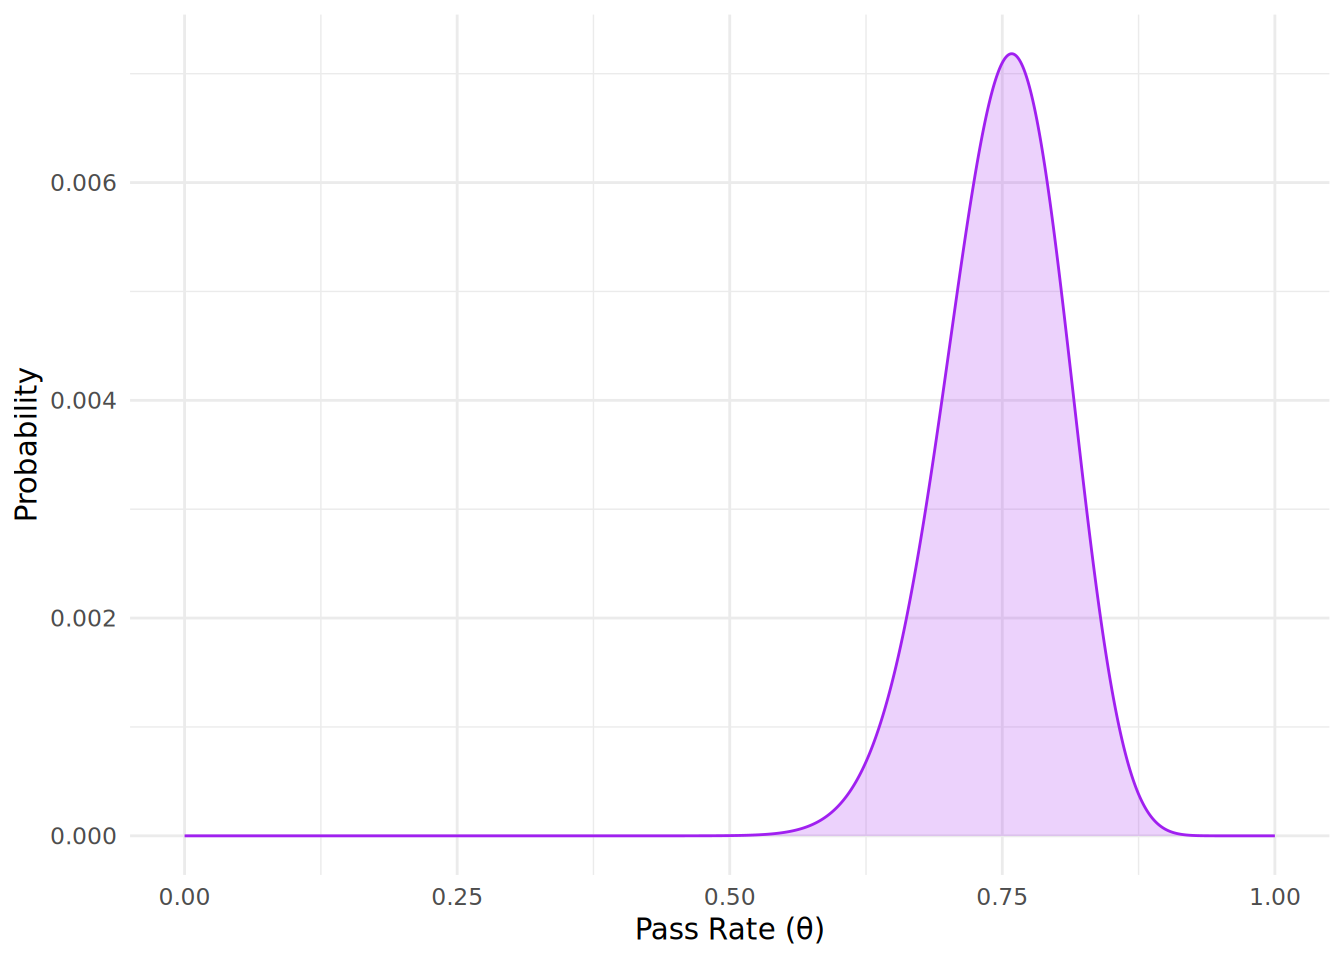
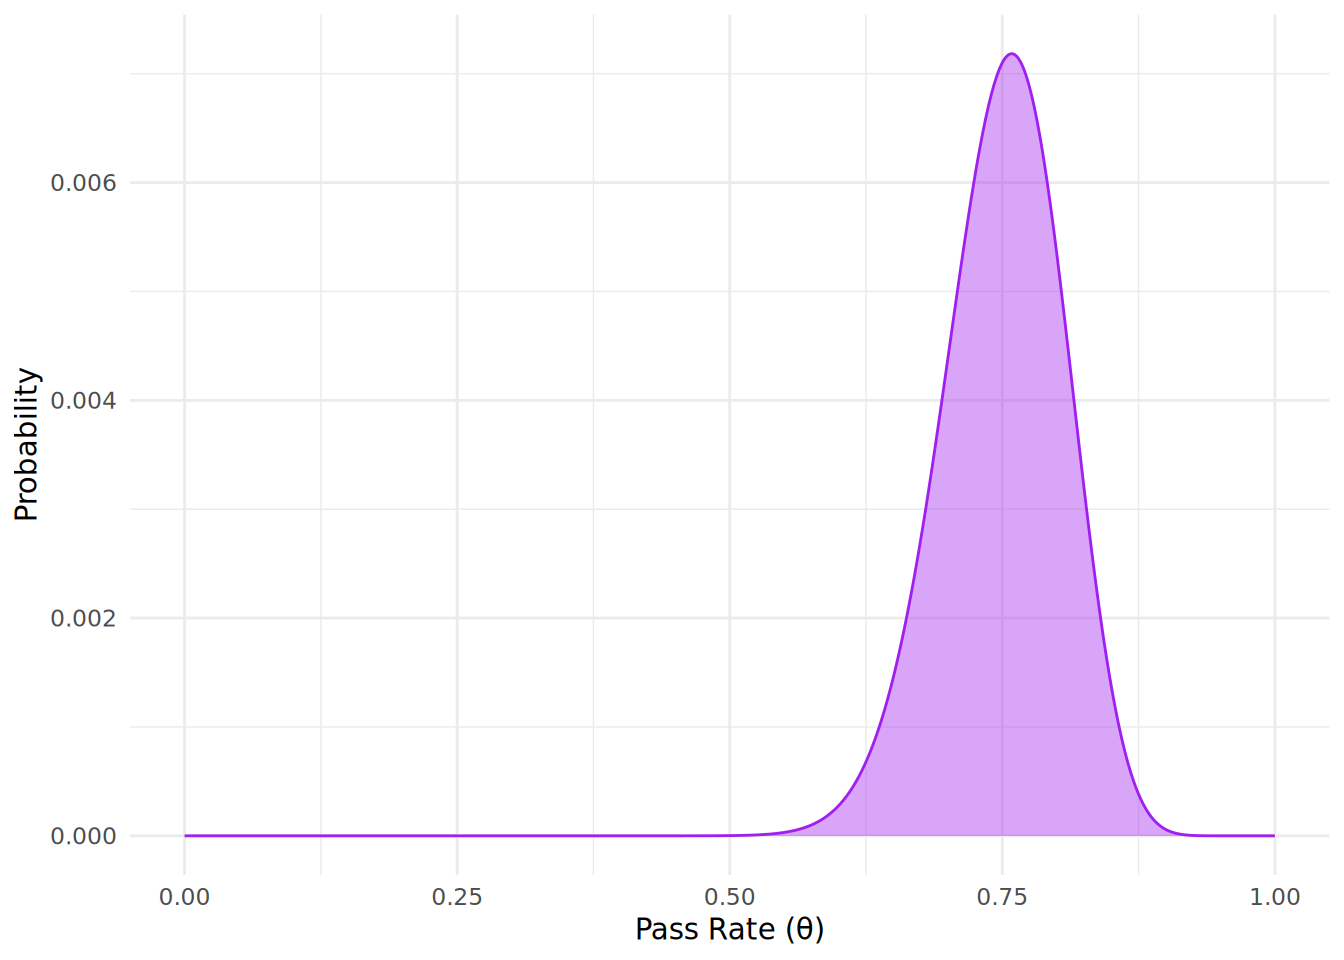
Adjust colors in comparative distributions for greater color-blind friendliness

Changed region(s): [[0.5938, 0.0625, 0.875, 0.875]]

diff --git a/docs/bayesian_inference.html b/docs/bayesian_inference.html
@@ -456,8 +456,8 @@ Figure&nbsp;12.1: Non-informative Beta(1, 1) (uniform) prior on the distribution
 <span id="cb2-6"><a href="#cb2-6" aria-hidden="true" tabindex="-1"></a></span>
 <span id="cb2-7"><a href="#cb2-7" aria-hidden="true" tabindex="-1"></a><span class="co"># plot the prior distribution</span></span>
 <span id="cb2-8"><a href="#cb2-8" aria-hidden="true" tabindex="-1"></a><span class="fu">ggplot</span>(prior_df, <span class="fu">aes</span>(<span class="at">x =</span> theta, <span class="at">y =</span> density)) <span class="sc">+</span></span>
-<span id="cb2-9"><a href="#cb2-9" aria-hidden="true" tabindex="-1"></a>  <span class="fu">geom_line</span>(<span class="at">color =</span> <span class="st">"darkgreen"</span>) <span class="sc">+</span></span>
-<span id="cb2-10"><a href="#cb2-10" aria-hidden="true" tabindex="-1"></a>  <span class="fu">geom_area</span>(<span class="at">fill =</span> <span class="st">"darkgreen"</span>, <span class="at">alpha =</span> <span class="fl">0.2</span>) <span class="sc">+</span></span>
+<span id="cb2-9"><a href="#cb2-9" aria-hidden="true" tabindex="-1"></a>  <span class="fu">geom_line</span>(<span class="at">color =</span> <span class="st">"blue"</span>) <span class="sc">+</span></span>
+<span id="cb2-10"><a href="#cb2-10" aria-hidden="true" tabindex="-1"></a>  <span class="fu">geom_area</span>(<span class="at">fill =</span> <span class="st">"blue"</span>, <span class="at">alpha =</span> <span class="fl">0.4</span>) <span class="sc">+</span></span>
 <span id="cb2-11"><a href="#cb2-11" aria-hidden="true" tabindex="-1"></a>  <span class="fu">labs</span>(<span class="at">x =</span> <span class="st">"Pass Rate (θ)"</span>,</span>
 <span id="cb2-12"><a href="#cb2-12" aria-hidden="true" tabindex="-1"></a>       <span class="at">y =</span> <span class="st">"Density"</span>) <span class="sc">+</span></span>
 <span id="cb2-13"><a href="#cb2-13" aria-hidden="true" tabindex="-1"></a>  <span class="fu">theme_minimal</span>()</span></code></pre></div><button title="Copy to Clipboard" class="code-copy-button"><i class="bi"></i></button></div>
@@ -509,8 +509,8 @@ P(D \mid \theta) = \binom{20}{12} \theta^{12}(1 - \theta)^{8}
 <span id="cb5-3"><a href="#cb5-3" aria-hidden="true" tabindex="-1"></a></span>
 <span id="cb5-4"><a href="#cb5-4" aria-hidden="true" tabindex="-1"></a><span class="co"># plot the likelihood function</span></span>
 <span id="cb5-5"><a href="#cb5-5" aria-hidden="true" tabindex="-1"></a><span class="fu">ggplot</span>(likelihood_df, <span class="fu">aes</span>(<span class="at">x =</span> theta, <span class="at">y =</span> likelihood)) <span class="sc">+</span></span>
-<span id="cb5-6"><a href="#cb5-6" aria-hidden="true" tabindex="-1"></a>  <span class="fu">geom_line</span>(<span class="at">color =</span> <span class="st">"blue"</span>) <span class="sc">+</span></span>
-<span id="cb5-7"><a href="#cb5-7" aria-hidden="true" tabindex="-1"></a>  <span class="fu">geom_area</span>(<span class="at">fill =</span> <span class="st">"blue"</span>, <span class="at">alpha =</span> <span class="fl">0.2</span>) <span class="sc">+</span></span>
+<span id="cb5-6"><a href="#cb5-6" aria-hidden="true" tabindex="-1"></a>  <span class="fu">geom_line</span>(<span class="at">color =</span> <span class="st">"magenta"</span>) <span class="sc">+</span></span>
+<span id="cb5-7"><a href="#cb5-7" aria-hidden="true" tabindex="-1"></a>  <span class="fu">geom_area</span>(<span class="at">fill =</span> <span class="st">"magenta"</span>, <span class="at">alpha =</span> <span class="fl">0.4</span>) <span class="sc">+</span></span>
 <span id="cb5-8"><a href="#cb5-8" aria-hidden="true" tabindex="-1"></a>  <span class="fu">labs</span>(<span class="at">x =</span> <span class="st">"Pass Rate (θ)"</span>,</span>
 <span id="cb5-9"><a href="#cb5-9" aria-hidden="true" tabindex="-1"></a>       <span class="at">y =</span> <span class="st">"Likelihood"</span>) <span class="sc">+</span></span>
 <span id="cb5-10"><a href="#cb5-10" aria-hidden="true" tabindex="-1"></a>  <span class="fu">theme_minimal</span>()</span></code></pre></div><button title="Copy to Clipboard" class="code-copy-button"><i class="bi"></i></button></div>
@@ -549,8 +549,8 @@ Figure&nbsp;12.3: Likelihood of observing 12 passes out of 20 engineers for diff
 <span id="cb7-3"><a href="#cb7-3" aria-hidden="true" tabindex="-1"></a></span>
 <span id="cb7-4"><a href="#cb7-4" aria-hidden="true" tabindex="-1"></a><span class="co"># plot the posterior distribution</span></span>
 <span id="cb7-5"><a href="#cb7-5" aria-hidden="true" tabindex="-1"></a><span class="fu">ggplot</span>(posterior_df, <span class="fu">aes</span>(<span class="at">x =</span> theta, <span class="at">y =</span> density)) <span class="sc">+</span></span>
-<span id="cb7-6"><a href="#cb7-6" aria-hidden="true" tabindex="-1"></a>  <span class="fu">geom_line</span>(<span class="at">color =</span> <span class="st">"red"</span>) <span class="sc">+</span></span>
-<span id="cb7-7"><a href="#cb7-7" aria-hidden="true" tabindex="-1"></a>  <span class="fu">geom_area</span>(<span class="at">fill =</span> <span class="st">"red"</span>, <span class="at">alpha =</span> <span class="fl">0.2</span>) <span class="sc">+</span></span>
+<span id="cb7-6"><a href="#cb7-6" aria-hidden="true" tabindex="-1"></a>  <span class="fu">geom_line</span>(<span class="at">color =</span> <span class="st">"cyan"</span>) <span class="sc">+</span></span>
+<span id="cb7-7"><a href="#cb7-7" aria-hidden="true" tabindex="-1"></a>  <span class="fu">geom_area</span>(<span class="at">fill =</span> <span class="st">"cyan"</span>, <span class="at">alpha =</span> <span class="fl">0.4</span>) <span class="sc">+</span></span>
 <span id="cb7-8"><a href="#cb7-8" aria-hidden="true" tabindex="-1"></a>  <span class="fu">labs</span>(<span class="at">x =</span> <span class="st">"Pass Rate (θ)"</span>,</span>
 <span id="cb7-9"><a href="#cb7-9" aria-hidden="true" tabindex="-1"></a>       <span class="at">y =</span> <span class="st">"Density"</span>) <span class="sc">+</span></span>
 <span id="cb7-10"><a href="#cb7-10" aria-hidden="true" tabindex="-1"></a>  <span class="fu">theme_minimal</span>()</span></code></pre></div><button title="Copy to Clipboard" class="code-copy-button"><i class="bi"></i></button></div>
@@ -617,7 +617,7 @@ Figure&nbsp;12.5: Prior, Normalized Likelihood and Posterior probabilities of pa
 <span id="cb8-19"><a href="#cb8-19" aria-hidden="true" tabindex="-1"></a></span>
 <span id="cb8-20"><a href="#cb8-20" aria-hidden="true" tabindex="-1"></a><span class="fu">ggplot</span>(new_posterior_df, <span class="fu">aes</span>(<span class="at">x =</span> theta, <span class="at">y =</span> density)) <span class="sc">+</span></span>
 <span id="cb8-21"><a href="#cb8-21" aria-hidden="true" tabindex="-1"></a>  <span class="fu">geom_line</span>(<span class="at">color =</span> <span class="st">"purple"</span>) <span class="sc">+</span></span>
-<span id="cb8-22"><a href="#cb8-22" aria-hidden="true" tabindex="-1"></a>  <span class="fu">geom_area</span>(<span class="at">fill =</span> <span class="st">"purple"</span>, <span class="at">alpha =</span> <span class="fl">0.2</span>) <span class="sc">+</span></span>
+<span id="cb8-22"><a href="#cb8-22" aria-hidden="true" tabindex="-1"></a>  <span class="fu">geom_area</span>(<span class="at">fill =</span> <span class="st">"purple"</span>, <span class="at">alpha =</span> <span class="fl">0.4</span>) <span class="sc">+</span></span>
 <span id="cb8-23"><a href="#cb8-23" aria-hidden="true" tabindex="-1"></a>  <span class="fu">labs</span>(<span class="at">x =</span> <span class="st">"Pass Rate (θ)"</span>,</span>
 <span id="cb8-24"><a href="#cb8-24" aria-hidden="true" tabindex="-1"></a>       <span class="at">y =</span> <span class="st">"Probability"</span>) <span class="sc">+</span></span>
 <span id="cb8-25"><a href="#cb8-25" aria-hidden="true" tabindex="-1"></a>  <span class="fu">theme_minimal</span>()</span></code></pre></div><button title="Copy to Clipboard" class="code-copy-button"><i class="bi"></i></button></div>
